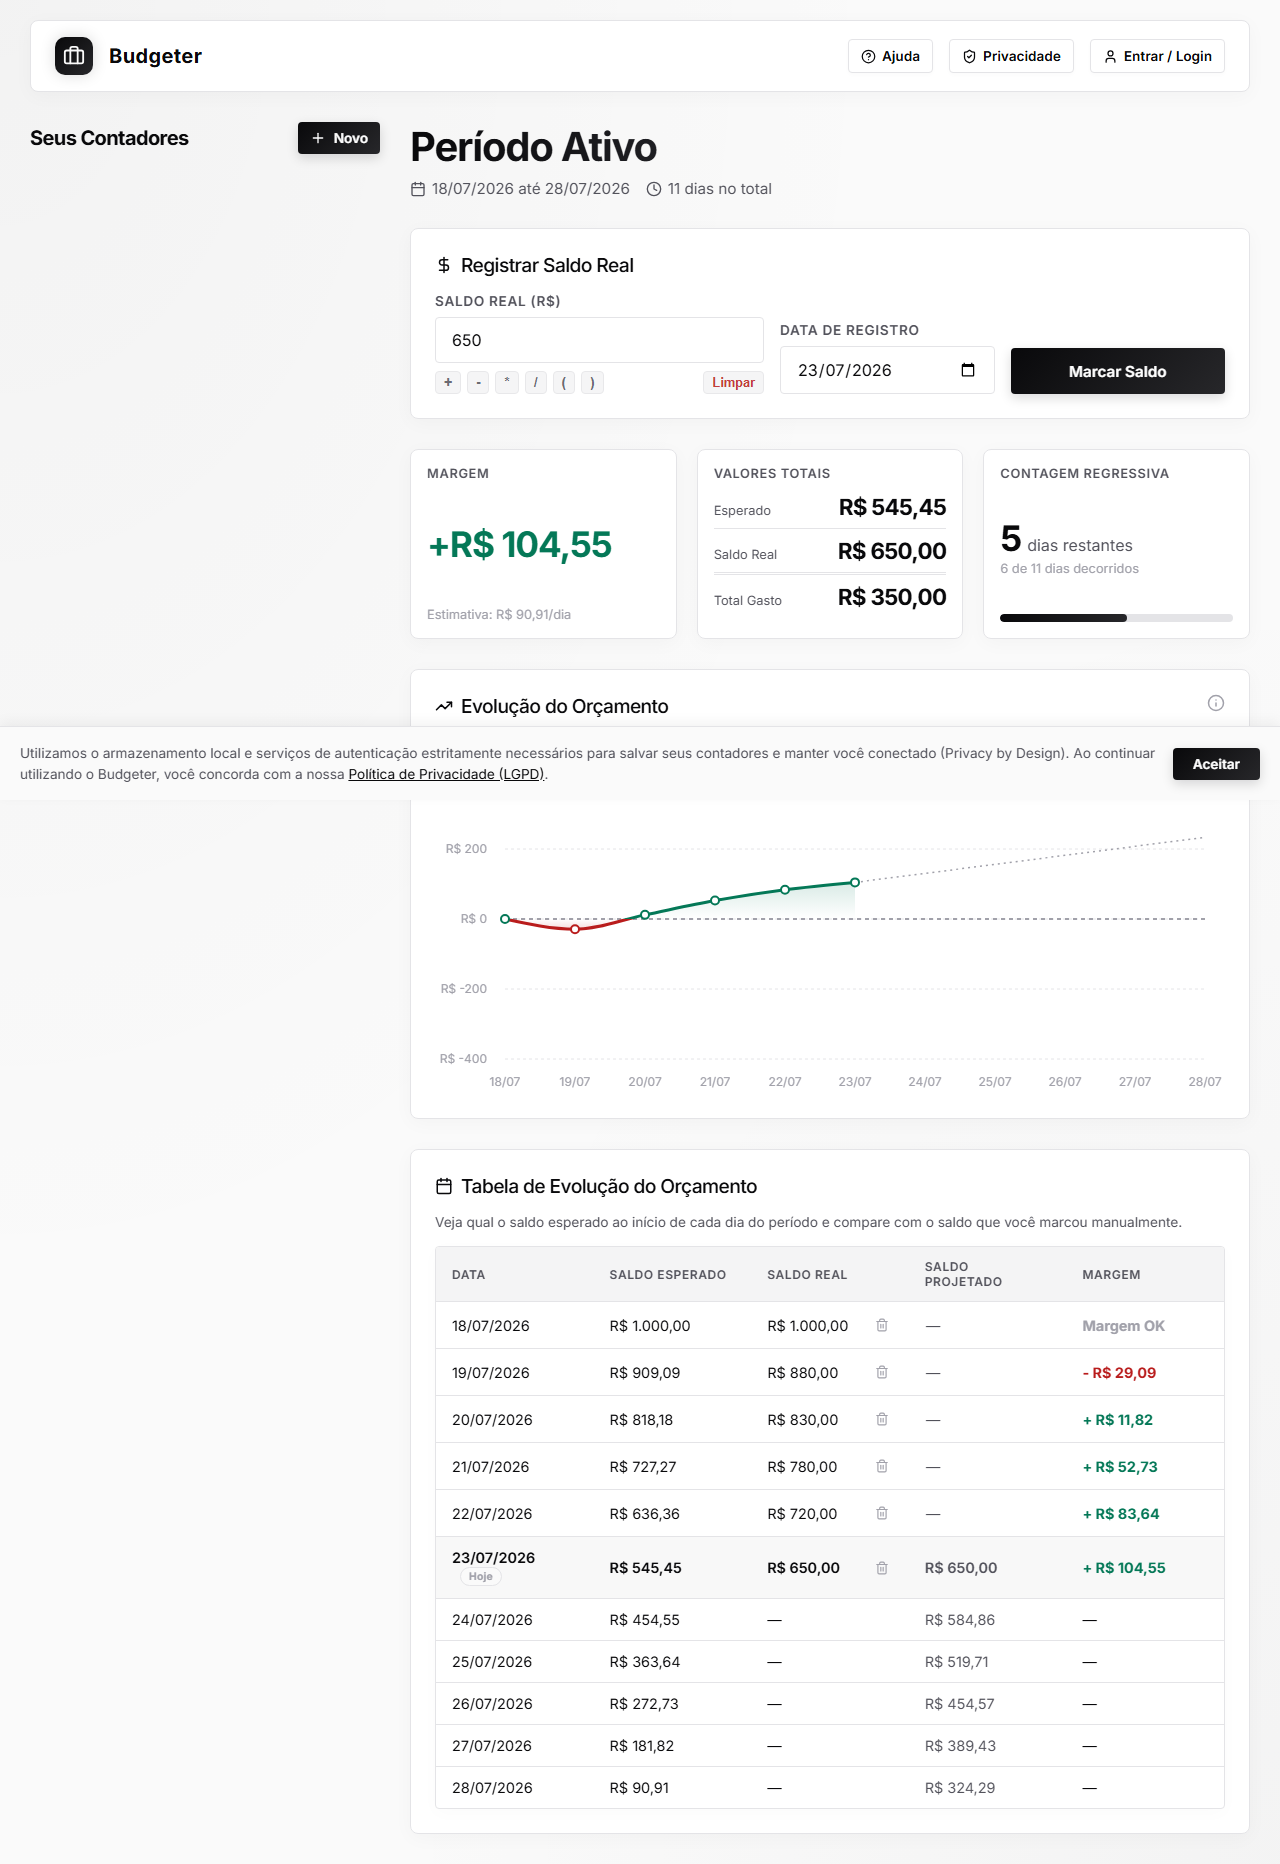
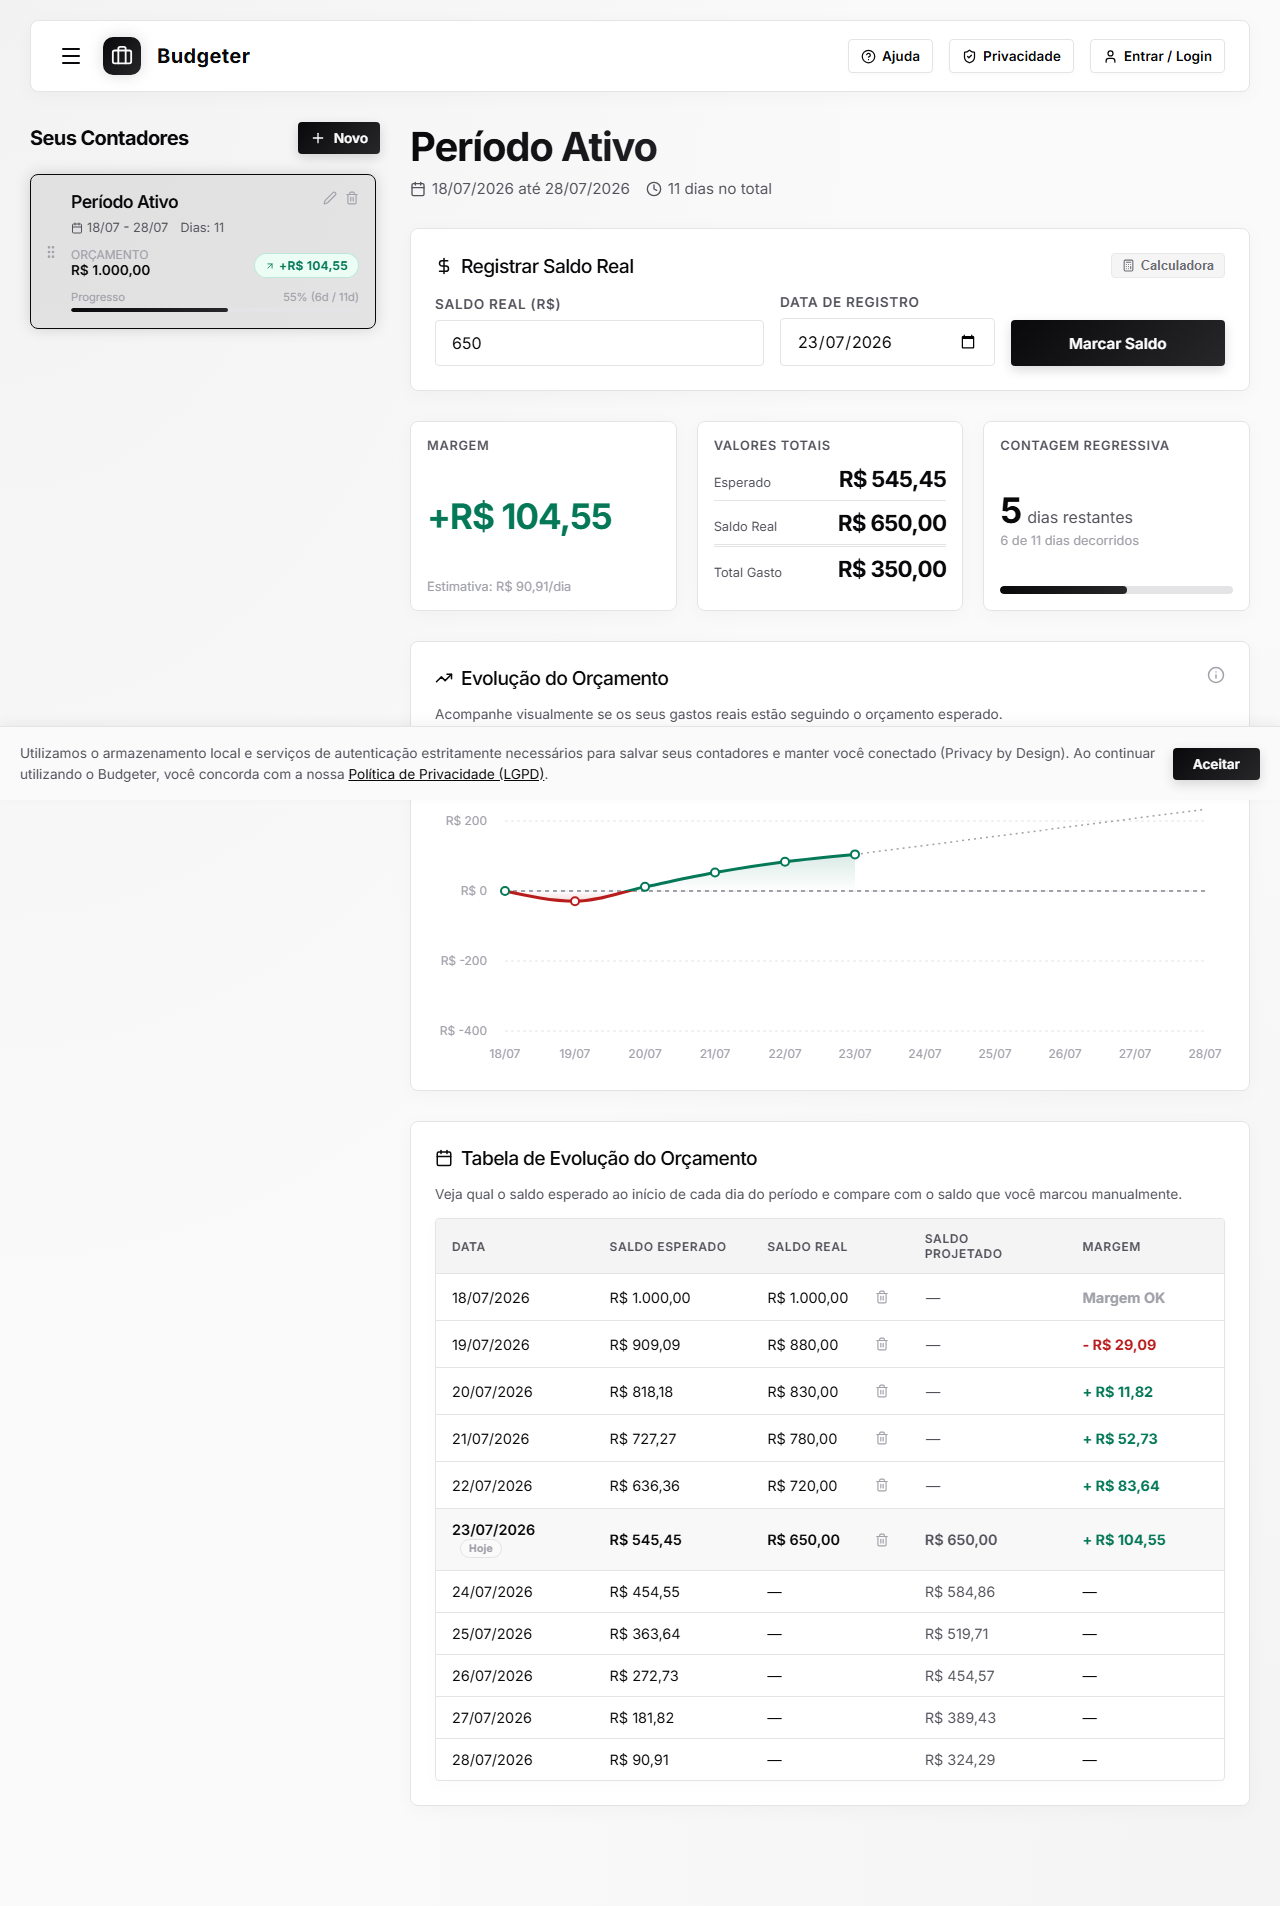
style: fazer último card ocupar linha inteira quando layout tiver 2 linhas

diff --git a/tests/cards-layout.spec.ts b/tests/cards-layout.spec.ts
@@ -1,0 +1,71 @@
+import { test, expect } from '@playwright/test';
+
+function generateMockPeriod() {
+  const today = new Date();
+  const formatDate = (d: Date) => d.toISOString().split('T')[0];
+
+  const start = new Date(today);
+  start.setDate(today.getDate() - 5);
+  const end = new Date(today);
+  end.setDate(today.getDate() + 5);
+
+  const history: Record<string, number> = {};
+  for (let i = 0; i <= 5; i++) {
+    const d = new Date(start);
+    d.setDate(start.getDate() + i);
+    history[formatDate(d)] = 1000 - i * 100;
+  }
+
+  return {
+    id: "layout-test-period",
+    name: "Período Teste Layout",
+    startDate: formatDate(start),
+    endDate: formatDate(end),
+    initialBudget: 1000,
+    finalBudget: 0,
+    currentBalance: 500,
+    currentBalanceDate: formatDate(today),
+    balanceHistory: history,
+    createdAt: new Date().toISOString(),
+    userId: "teste"
+  };
+}
+
+test.describe('KPI Cards Layout', () => {
+  test('verify 2-line layout where last card spans full width', async ({ browser }) => {
+    // 750px width causes 2 rows of cards when sidebar is open or closed
+    const context = await browser.newContext({
+      viewport: { width: 750, height: 800 }
+    });
+    const page = await context.newPage();
+    const mockData = generateMockPeriod();
+
+    await page.addInitScript((data) => {
+      window.localStorage.setItem('budgeter_periods', JSON.stringify([data]));
+      window.localStorage.setItem('budgeter_selected_period_id', data.id);
+    }, mockData);
+
+    await page.goto('/');
+    await page.waitForSelector('.kpi-cards-grid');
+
+    // Take screenshot to visually verify card widths
+    await page.screenshot({ path: 'cards-2lines-check.png' });
+    
+    // Check bounding boxes of the 3 cards
+    const cards = page.locator('.kpi-cards-grid > div');
+    await expect(cards).toHaveCount(3);
+
+    const box1 = await cards.nth(0).boundingBox();
+    const box2 = await cards.nth(1).boundingBox();
+    const box3 = await cards.nth(2).boundingBox();
+
+    if (box1 && box2 && box3) {
+      console.log(`Card 1 width: ${box1.width}, Card 2 width: ${box2.width}, Card 3 width: ${box3.width}`);
+      // Card 3 should be significantly wider than Card 1 and Card 2 because Card 3 spans the entire row
+      expect(box3.width).toBeGreaterThan(box1.width);
+      expect(box3.width).toBeGreaterThan(box2.width);
+    }
+
+    await context.close();
+  });
+});

diff --git a/src/index.css b/src/index.css
@@ -298,6 +298,19 @@ h1, h2, h3, h4, .font-display {
   transition: width 0.4s cubic-bezier(0.4, 0, 0.2, 1);
 }
 
+/* KPI Cards Grid */
+.kpi-cards-grid {
+  display: flex;
+  flex-wrap: wrap;
+  gap: 20px;
+}
+
+.kpi-cards-grid > * {
+  flex: 1 1 260px;
+  min-width: 0;
+}
+
+
 /* Dashboard Grid Layout */
 .dashboard-container {
   max-width: 1440px;

diff --git a/src/components/PeriodDetail.tsx b/src/components/PeriodDetail.tsx
@@ -668,7 +668,7 @@ export const PeriodDetail: React.FC<PeriodDetailProps> = ({
       </div>
 
       {/* SECTION 3: Grid of Main KPIs */}
-      <div className="animate-in delay-200" style={{ display: 'grid', gridTemplateColumns: 'repeat(auto-fit, minmax(260px, 1fr))', gap: '20px' }}>
+      <div className="kpi-cards-grid animate-in delay-200">
         
         {/* Budget Goals Card */}
         <div className="glass glass-enhanced-hover" style={{ padding: '16px', display: 'flex', flexDirection: 'column', justifyContent: 'space-between' }}>

diff --git a/src/components/SkeletonDashboard.tsx b/src/components/SkeletonDashboard.tsx
@@ -104,7 +104,7 @@ export const SkeletonPeriodDetail: React.FC = () => {
       </div>
 
       {/* SECTION 2: Metrics Grid */}
-      <div style={{ display: 'grid', gridTemplateColumns: 'repeat(auto-fit, minmax(260px, 1fr))', gap: '20px' }}>
+      <div className="kpi-cards-grid">
         {/* Metric 1 */}
         <div className="glass" style={{ padding: '16px', display: 'flex', flexDirection: 'column', gap: '12px', minHeight: '140px', justifyContent: 'space-between' }}>
           <div className="skeleton-pulse" style={{ height: '14px', width: '120px', borderRadius: '4px' }} />